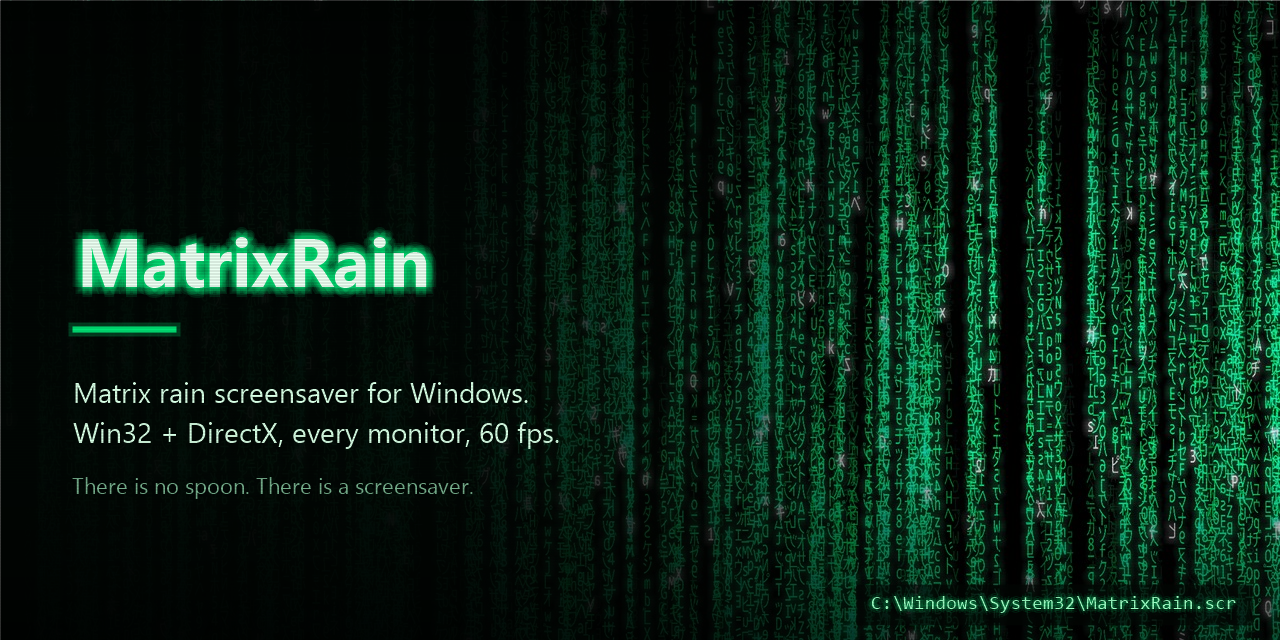
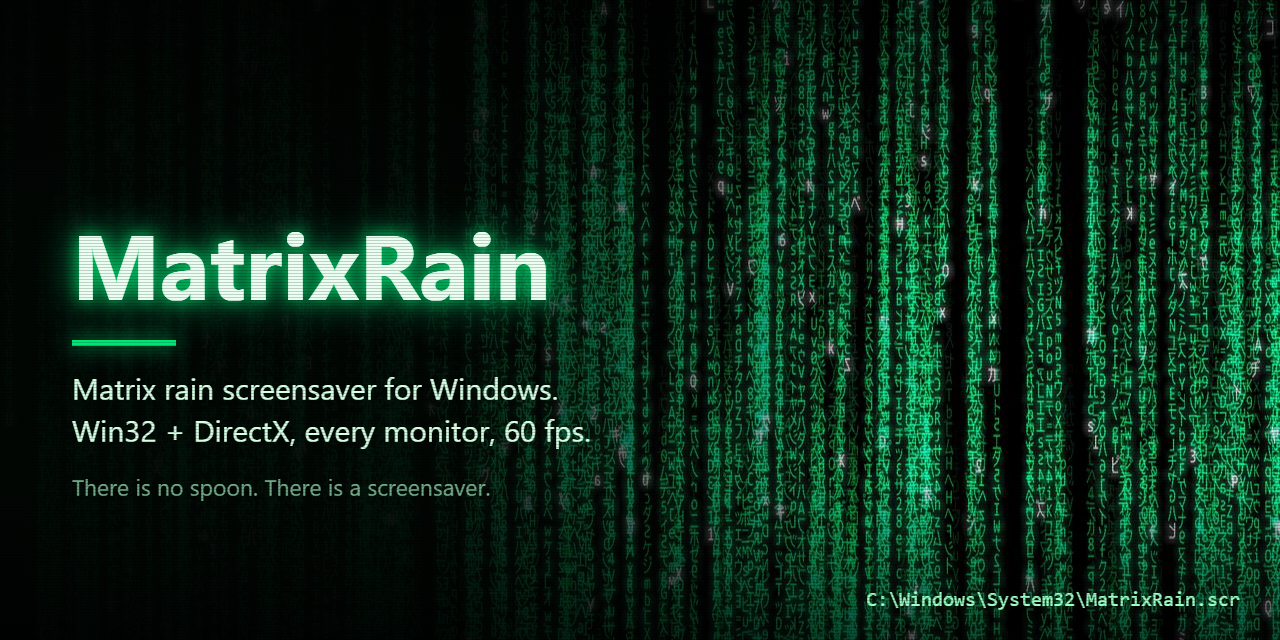
docs(assets): generate the social preview from the canvas page itself
The card is drawn by scripts/social-preview.html and screenshotted with
headless Edge, replacing the GDI+ port of it. The port kept drifting
from the original: its glow was stamped from offset copies rather than
blurred, its scrim gradient did not match Chromium's, and it
antialiased the 1px scanlines down to roughly a quarter of their
intended strength. Rendering the real page removes the whole class of
problem.

The rain's bloom is a wanted compression artefact. Downscaling the
still to 1280x853 and encoding it at JPEG quality 72 before the canvas
sees it smears the saturated green sideways and rings around the bright
glyphs; Chromium downscaling the PNG directly looks noticeably crisper
(mean horizontal gradient 21.2 against 29.0). The generator now does
that pre-pass itself, with -BackgroundQuality as the knob.

The .scr path no longer carries a glow. The JPEG is the upload that
fits GitHub's 1 MB cap; the PNGs are the lossless masters.

diff --git a/scripts/social-preview.html b/scripts/social-preview.html
@@ -1,0 +1,89 @@
+<!DOCTYPE html>
+<html>
+<head><meta charset="utf-8"><title>MatrixRain social preview</title>
+<style>body{margin:0;background:#111}canvas{display:block}</style></head>
+<body>
+<canvas id="c" width="1280" height="640"></canvas>
+<script>
+const W = 1280, H = 640;
+const c = document.getElementById('c');
+const g = c.getContext('2d');
+const GREEN = '#00E676';
+
+window.done = false;
+const img = new Image();
+img.onload = () => { draw(img); window.done = true; };
+img.onerror = e => { window.done = 'error'; };
+// The rain's bloom comes from the background being downscaled and JPEG'd
+// before the canvas ever sees it; -Background supplies that prepared file.
+const bgParam = new URLSearchParams(location.search).get('bg');
+img.src = bgParam || '../assets/MatrixRain.png';
+
+function draw(img) {
+  // --- background: cover-crop the real app frame ---
+  const s = Math.max(W / img.width, H / img.height);
+  const dw = img.width * s, dh = img.height * s;
+  g.drawImage(img, (W - dw) / 2, (H - dh) / 2, dw, dh);
+
+  // --- left scrim so the wordmark reads, rain still faintly visible ---
+  let grd = g.createLinearGradient(0, 0, W * 0.72, 0);
+  grd.addColorStop(0.00, 'rgba(1,6,3,0.97)');
+  grd.addColorStop(0.45, 'rgba(1,6,3,0.93)');
+  grd.addColorStop(0.72, 'rgba(1,6,3,0.45)');
+  grd.addColorStop(1.00, 'rgba(1,6,3,0.00)');
+  g.fillStyle = grd; g.fillRect(0, 0, W, H);
+
+  // --- edge vignette ---
+  grd = g.createLinearGradient(0, 0, 0, H);
+  grd.addColorStop(0, 'rgba(0,0,0,0.55)');
+  grd.addColorStop(0.35, 'rgba(0,0,0,0)');
+  grd.addColorStop(0.75, 'rgba(0,0,0,0)');
+  grd.addColorStop(1, 'rgba(0,0,0,0.65)');
+  g.fillStyle = grd; g.fillRect(0, 0, W, H);
+
+  const X = 72;
+
+  // --- wordmark: white leader glyph over green trail, the app's own look ---
+  g.textBaseline = 'alphabetic';
+  g.font = '700 92px "Segoe UI", Arial, sans-serif';
+  g.shadowColor = 'rgba(0,230,118,0.85)';
+  g.shadowBlur = 38;
+  g.fillStyle = '#EAFFF1';
+  g.fillText('MatrixRain', X, 300);
+  g.shadowBlur = 16;
+  g.fillText('MatrixRain', X, 300);
+  g.shadowBlur = 0;
+
+  // --- accent rule ---
+  g.shadowColor = 'rgba(0,230,118,0.9)'; g.shadowBlur = 20;
+  g.fillStyle = GREEN; g.fillRect(X, 340, 104, 6);
+  g.shadowBlur = 0;
+
+  // --- tagline ---
+  g.font = '400 30px "Segoe UI", Arial, sans-serif';
+  g.fillStyle = '#D7FFE5';
+  g.fillText('Matrix rain screensaver for Windows.', X, 400);
+  g.fillText('Win32 + DirectX, every monitor, 60 fps.', X, 442);
+
+  // --- quip ---
+  g.font = '400 23px "Segoe UI", Arial, sans-serif';
+  g.fillStyle = 'rgba(122,180,145,0.95)';
+  g.fillText('There is no spoon. There is a screensaver.', X, 496);
+
+  // --- in-world flourish: the installed screensaver's filename ---
+  g.font = '500 20px Consolas, "Cascadia Mono", monospace';
+  g.textAlign = 'right';
+  g.fillStyle = '#9CFFC4';
+  g.fillText('C:\\Windows\\System32\\MatrixRain.scr', W - 40, H - 34);
+  g.shadowBlur = 0;
+  g.textAlign = 'left';
+
+  // --- signature scanline pass (the 1.5 feature), very subtle ---
+  g.fillStyle = 'rgba(0,0,0,0.18)';
+  for (let y = 0; y < H; y += 3) g.fillRect(0, y, W, 1);
+}
+
+window.grab = () => c.toDataURL('image/png').split(',')[1];
+</script>
+</body>
+</html>
